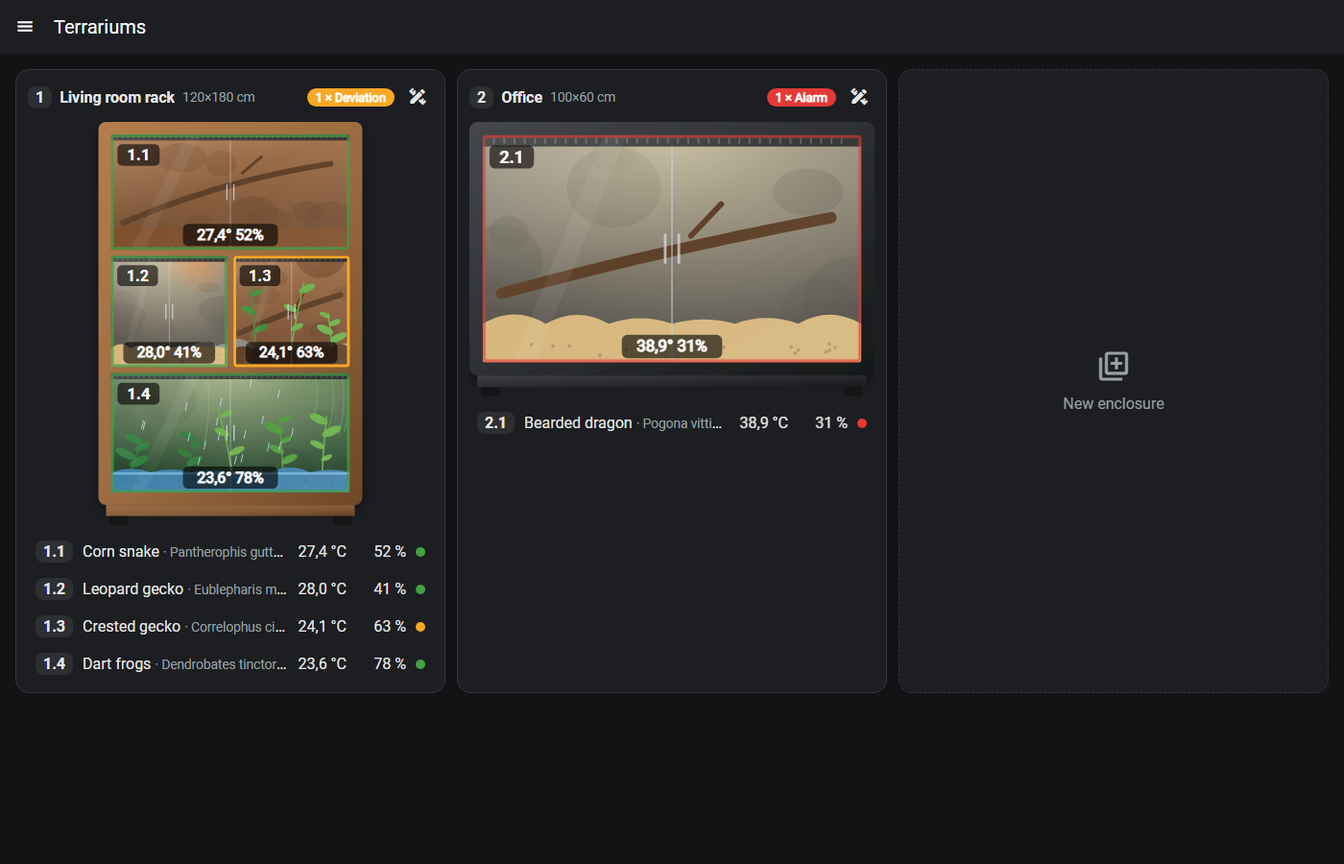
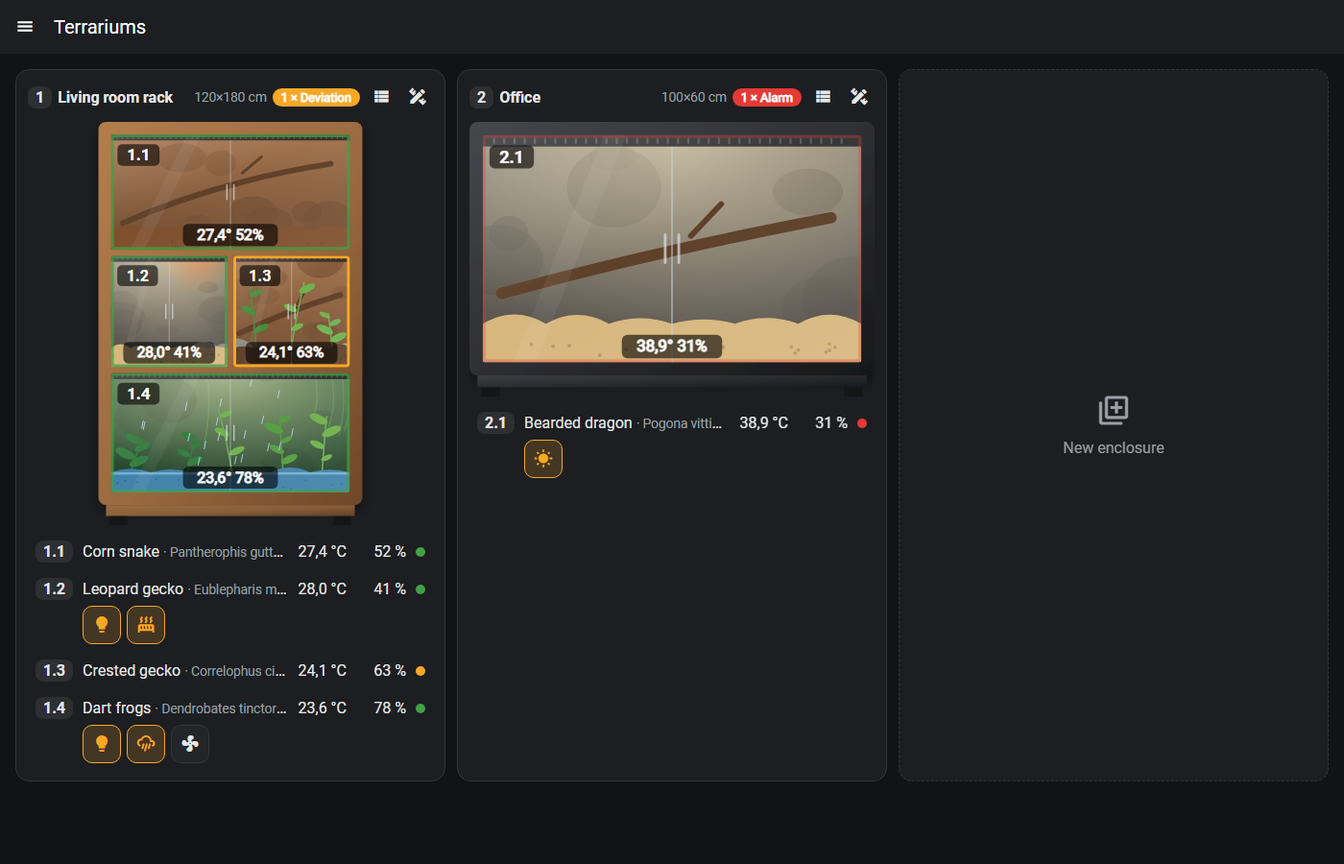
1.1.0: phone/tablet layout – quick device buttons in the list, foldable model, touch-sized controls, container-query layout

diff --git a/custom_components/terrarium/frontend/terrarium-card.js b/custom_components/terrarium/frontend/terrarium-card.js
@@ -1,6 +1,6 @@
 /* Terrarium card + panel for Home Assistant – https://github.com/SysriX/terrarium_ha_integration */
 (() => {
-const VERSION = "1.0.0";
+const VERSION = "1.1.0";
 if (customElements.get("terrarium-card")) return;
 
 /* ------------------------------------------------------------------ texts */
@@ -44,6 +44,7 @@ const TEXTS = {
     kind: "Art", k_light: "Licht", k_heat: "Wärme", k_uv: "UV", k_ventilation: "Lüftung", k_rain: "Beregnung", k_fogger: "Nebler", k_pump: "Pumpe", k_other: "Sonstiges",
     planned: "Geplant", planned_hint: "Diese Automationen folgen in einer späteren Version.",
     m_light: "Lichtsteuerung (Zeiten, Sonnenauf-/-untergang)", m_ventilation: "Lüftungssteuerung", m_rain: "Beregnung / Regensimulation",
+    model_show: "Modell anzeigen", model_hide: "Nur Liste",
     on: "An", off: "Aus", unavailable: "nicht verfügbar", required_num: "Bitte eine Zahl eingeben.",
   },
   en: {
@@ -83,6 +84,7 @@ const TEXTS = {
     kind: "Kind", k_light: "Light", k_heat: "Heat", k_uv: "UV", k_ventilation: "Ventilation", k_rain: "Rain", k_fogger: "Fogger", k_pump: "Pump", k_other: "Other",
     planned: "Planned", planned_hint: "These automations follow in a later version.",
     m_light: "Light control (times, sunrise/sunset)", m_ventilation: "Ventilation control", m_rain: "Rain simulation",
+    model_show: "Show model", model_hide: "List only",
     on: "On", off: "Off", unavailable: "unavailable", required_num: "Please enter a number.",
   },
 };
@@ -336,9 +338,9 @@ function chartSVG(points, lo, hi, unit, color, startMs, endMs) {
 
 /* ------------------------------------------------------------------ styles */
 const STYLE = `
-:host { display:block; --tc-gap:12px; --tc-muted: var(--secondary-text-color, #9aa0a6); }
+:host { display:block; --tc-gap:12px; --tc-muted: var(--secondary-text-color, #9aa0a6); -webkit-tap-highlight-color: transparent; }
 * { box-sizing: border-box; }
-.wrap { padding: 12px; color: var(--primary-text-color, #e1e1e1); font-family: var(--paper-font-body1_-_font-family, inherit); }
+.wrap { container-type: inline-size; padding: 12px; color: var(--primary-text-color, #e1e1e1); font-family: var(--paper-font-body1_-_font-family, inherit); }
 .panel .wrap { padding: 16px; max-width: 1600px; margin: 0 auto; }
 h2 { font-size: 1.25rem; margin: 0; font-weight: 600; }
 h3 { font-size: 1rem; margin: 0 0 8px; font-weight: 600; }
@@ -346,6 +348,7 @@ h3 { font-size: 1rem; margin: 0 0 8px; font-weight: 600; }
 .small { font-size: .85rem; }
 .row { display:flex; align-items:center; gap:8px; }
 .spacer { flex:1; }
+.head .hd { min-width: 0; flex: 0 1 auto; }
 .head { display:flex; align-items:center; gap:10px; margin-bottom: 12px; flex-wrap: wrap; }
 button.b { font: inherit; cursor:pointer; border:1px solid var(--divider-color, #3a3f45); background: var(--secondary-background-color, #2a2d31);
   color: var(--primary-text-color, #e1e1e1); border-radius: 10px; padding: 7px 12px; display:inline-flex; gap:6px; align-items:center; }
@@ -356,22 +359,26 @@ button.b[disabled] { opacity:.5; cursor: default; }
 button.ic { background:none; border:none; color: inherit; cursor:pointer; padding:6px; border-radius: 50%; display:inline-flex; }
 button.ic:hover { background: rgba(127,127,127,.15); }
 ha-icon { --mdc-icon-size: 20px; }
-.grid { display:grid; grid-template-columns: repeat(auto-fill, minmax(380px, 1fr)); gap: var(--tc-gap); }
+.grid { display:grid; grid-template-columns: repeat(auto-fill, minmax(min(380px, 100%), 1fr)); gap: var(--tc-gap); }
 .ell { min-width:0; overflow:hidden; text-overflow:ellipsis; white-space:nowrap; }
 .tile { background: var(--card-background-color, #1f2124); border: 1px solid var(--divider-color, #33373c); border-radius: 14px; padding: 12px; display:flex; flex-direction:column; gap:10px; }
 .card-mode .tile { background: rgba(127,127,127,.06); }
-.tile .th { display:flex; align-items:center; gap:8px; }
+.tile .th { display:flex; align-items:center; gap:6px; min-width:0; }
+.tile .th .tn { flex: 1 1 auto; min-width: 70px; }
+.tile .th .ic { flex: none; }
 .nr { font-weight:700; background: rgba(127,127,127,.18); border-radius: 8px; padding: 2px 8px; font-variant-numeric: tabular-nums; }
 .chip { white-space:nowrap; display:inline-flex; align-items:center; gap:5px; border-radius: 999px; padding: 2px 9px; font-size: .8rem; font-weight:600; color:#fff; }
 .model { width:100%; height:auto; display:block; max-height: 420px; }
 .model .comp { cursor:pointer; transition: opacity .2s; }
-.model .comp:hover { opacity:.92; }
 .model .comp.dim { opacity:.35; }
 .blink { animation: blink 1.4s infinite; }
 @keyframes blink { 50% { opacity:.25; } }
 .list { display:flex; flex-direction:column; gap:4px; }
-.li { display:grid; grid-template-columns: auto 1fr auto auto auto; gap:10px; align-items:center; padding: 6px 8px; border-radius: 10px; cursor:pointer; }
-.li:hover { background: rgba(127,127,127,.1); }
+.li { display:grid; grid-template-columns: auto minmax(0,1fr) auto auto auto; gap:6px 10px; align-items:center; padding: 6px 8px; border-radius: 10px; cursor:pointer; }
+.qd { grid-column: 2 / -1; display:flex; flex-wrap:wrap; gap:6px; }
+.qb { width:40px; height:40px; border-radius: 10px; border:1px solid var(--divider-color, #3a3f45); background: rgba(127,127,127,.08); color: inherit; display:inline-flex; align-items:center; justify-content:center; cursor:pointer; padding:0; }
+.qb.on { border-color:#f9a825; background: rgba(249,168,37,.18); color:#f9a825; }
+.qb.na { opacity:.4; }
 .dot { width:10px; height:10px; border-radius:50%; display:inline-block; }
 .val { font-variant-numeric: tabular-nums; min-width: 52px; text-align:right; }
 .add-tile { align-items:center; justify-content:center; min-height: 200px; cursor:pointer; border-style: dashed; color: var(--tc-muted); }
@@ -388,6 +395,7 @@ ha-icon { --mdc-icon-size: 20px; }
 .devs { display:grid; grid-template-columns: repeat(auto-fill, minmax(120px, 1fr)); gap: 8px; }
 .dev { border:1px solid var(--divider-color, #3a3f45); border-radius: 12px; padding: 10px; cursor:pointer; display:flex; flex-direction:column; gap:4px; background: rgba(127,127,127,.06); }
 .dev.on { border-color: #f9a825; background: rgba(249,168,37,.14); }
+.dev.busy, .qb.busy { animation: blink .9s infinite; }
 .dev .dn { font-weight:600; font-size: .9rem; white-space:nowrap; overflow:hidden; text-overflow:ellipsis; }
 .prob { display:flex; align-items:center; gap:8px; padding: 4px 0; }
 .locator { max-width: 260px; }
@@ -409,7 +417,7 @@ input:focus, select:focus { outline: 2px solid var(--primary-color, #03a9f4); ou
 .devrow { display:grid; grid-template-columns: 130px 1fr 1fr auto; gap: 8px; align-items:center; margin-bottom: 6px; }
 .err { color: #ef5350; font-weight: 600; }
 .ok { color: #66bb6a; }
-.actions { display:flex; gap:8px; justify-content:flex-end; flex-wrap:wrap; position: sticky; bottom: 0; padding: 10px 0; background: linear-gradient(transparent, var(--primary-background-color, #111) 35%); }
+.actions { display:flex; gap:8px; justify-content:flex-end; flex-wrap:wrap; position: sticky; bottom: 0; padding: 10px 0 calc(10px + env(safe-area-inset-bottom, 0px)); background: linear-gradient(transparent, var(--primary-background-color, #111) 35%); }
 .card-mode .actions { background: none; position: static; }
 .planned { display:flex; flex-direction:column; gap:6px; }
 .planned .pl { display:flex; align-items:center; gap:8px; opacity: .7; }
@@ -421,8 +429,42 @@ input:focus, select:focus { outline: 2px solid var(--primary-color, #03a9f4); ou
 .edsvg .eh { cursor: nwse-resize; }
 .clist .ci { display:flex; gap:8px; align-items:center; padding: 4px 6px; border-radius: 8px; cursor:pointer; }
 .clist .ci.sel { background: rgba(3,169,244,.18); }
-@media (max-width: 860px) { .det, .ed { grid-template-columns: 1fr; } .locator { max-width: 200px; } }
-@media (max-width: 480px) { .grid { grid-template-columns: 1fr; } .devrow { grid-template-columns: 1fr 1fr; } .li { grid-template-columns: auto 1fr auto auto; } .li .hide-s { display:none; } }
+@media (hover: hover) { .li:hover { background: rgba(127,127,127,.1); } .model .comp:hover { opacity:.92; } .dev:hover, .qb:hover { border-color: var(--primary-color, #03a9f4); } }
+/* touch devices (iPhone, iPad): bigger targets, 16px inputs = no zoom on focus */
+@media (pointer: coarse) {
+  button.b { min-height: 44px; }
+  button.ic { min-width: 44px; min-height: 44px; justify-content: center; }
+  input, select { font-size: 16px; min-height: 44px; }
+  .qb { width: 46px; height: 46px; }
+  .li { padding: 10px 8px; }
+  .dev { min-height: 76px; }
+  label.cb { min-height: 40px; }
+  input[type=checkbox] { width: 22px; height: 22px; min-height: 0; }
+}
+/* layout follows the width of the card/panel, not the screen */
+@container (max-width: 860px) {
+  .det, .ed { display:flex; flex-direction:column; }
+  .det .col, .ed .col { display: contents; }
+  .o1{order:1} .o2{order:2} .o3{order:3} .o4{order:4} .o5{order:5} .o6{order:6} .o7{order:7}
+  .ed .edbox { order:-1; } .ed .actions { order: 20; }
+  .locator { max-width: 240px; }
+}
+@container (max-width: 520px) {
+  .wrap { padding: 8px; }
+  .head h2 { font-size: 1.08rem; }
+  .head { flex-wrap: nowrap; gap: 6px; }
+  .tile, .box, .sec { padding: 10px; border-radius: 12px; }
+  .devrow { grid-template-columns: 1fr 1fr; }
+  .hide-s { display:none; }
+  .li { gap: 6px 8px; }
+  .val { min-width: 44px; }
+  .gauges { gap: 2px; }
+  .devs { grid-template-columns: repeat(auto-fill, minmax(104px, 1fr)); }
+  .fields { grid-template-columns: repeat(auto-fill, minmax(130px, 1fr)); }
+  .grid { gap: 10px; }
+  .add-tile { min-height: 80px; flex-direction: row; }
+  .chip { padding: 2px 7px; font-size: .75rem; }
+}
 `;
 
 /* ------------------------------------------------------------------ main view */
@@ -436,6 +478,8 @@ class TerrariumView extends HTMLElement {
     this._hist = {};
     this._targets = null;
     this._msg = "";
+    this._busy = {};
+    try { this._modelPref = JSON.parse(localStorage.getItem("terrarium-model") || "{}"); } catch (e) { this._modelPref = {}; }
     this._root = this.shadowRoot;
     this._root.addEventListener("click", (e) => this._click(e));
     this._root.addEventListener("input", (e) => this._input(e));
@@ -472,6 +516,8 @@ class TerrariumView extends HTMLElement {
 
   _onData(data) {
     this._data = data;
+    // a switched device reported its new state -> stop the "busy" blink
+    for (const [ent, prev] of Object.entries(this._busy)) if (this._devState(ent) !== prev) delete this._busy[ent];
     this._error = null;
     if (!this._initialRoute) {
       this._initialRoute = true;
@@ -481,6 +527,29 @@ class TerrariumView extends HTMLElement {
       }
     }
     if (["overview", "details"].includes(this._view.name)) this._render();
+  }
+
+  _devState(ent) {
+    for (const e of (this._data?.enclosures || [])) for (const c of e.compartments) for (const d of (c.live?.devices || [])) if (d.entity_id === ent) return d.state;
+    const s = this._hass && this._hass.states[ent];
+    return s ? s.state : null;
+  }
+
+  _modelShown(encId) {
+    if (encId in this._modelPref) return this._modelPref[encId];
+    const w = this.getBoundingClientRect().width || window.innerWidth;
+    return w >= 560; // phones: compact list first, model on demand
+  }
+
+  _quickButtons(c) {
+    const devs = c.live?.devices || c.devices || [];
+    if (!devs.length) return "";
+    return `<div class="qd">${devs.map((d) => {
+      const st = this._devState(d.entity_id), on = isOn(st), na = st === null || st === "unavailable";
+      const s = this._hass.states[d.entity_id];
+      const name = d.name || (s && s.attributes.friendly_name) || d.entity_id;
+      return `<button class="qb ${on ? "on" : ""} ${na ? "na" : ""} ${this._busy[d.entity_id] !== undefined ? "busy" : ""}" data-act="toggle" data-ent="${esc(d.entity_id)}" title="${esc(name)}: ${on ? this.t("on") : this.t("off")}" aria-label="${esc(name)}"><ha-icon icon="${KIND_ICON[d.kind] || KIND_ICON.other}"></ha-icon></button>`;
+    }).join("")}</div>`;
   }
 
   _encs() {
@@ -529,19 +598,22 @@ class TerrariumView extends HTMLElement {
       const comps = enc.compartments;
       const bad = comps.filter((c) => ["alarm", "offline"].includes(c.live?.status)).length;
       const pend = comps.filter((c) => c.live?.status === "pending").length;
-      h += `<div class="tile"><div class="th"><span class="nr">${enc.nr}</span><b class="ell">${esc(enc.name || this.t("enclosure") + " " + enc.nr)}</b>`;
-      h += `<span class="muted small" style="white-space:nowrap">${enc.width}×${enc.height} cm</span><span class="spacer"></span>`;
+      h += `<div class="tile"><div class="th"><span class="nr">${enc.nr}</span><b class="ell tn">${esc(enc.name || this.t("enclosure") + " " + enc.nr)}</b>`;
+      h += `<span class="muted small hide-s" style="white-space:nowrap">${enc.width}×${enc.height} cm</span>`;
       if (bad) h += `<span class="chip" style="background:${STATUS_COLOR.alarm}">${bad} × ${this.t("status_alarm")}</span>`;
       else if (pend) h += `<span class="chip" style="background:${STATUS_COLOR.pending}">${pend} × ${this.t("status_pending")}</span>`;
+      const shown = this._modelShown(enc.id);
+      if (comps.length) h += `<button class="ic" data-act="model" data-enc="${esc(enc.id)}" title="${this.t(shown ? "model_hide" : "model_show")}"><ha-icon icon="${shown ? "mdi:view-list" : "mdi:image-outline"}"></ha-icon></button>`;
       if (this.admin) h += `<button class="ic" data-act="enc-edit" data-enc="${esc(enc.id)}" title="${this.t("edit")}"><ha-icon icon="mdi:pencil-ruler"></ha-icon></button>`;
-      h += `</div>${comps.length ? enclosureSVG(enc) : `<div class="muted small">${this.t("none_selected")}</div>`}<div class="list">`;
+      h += `</div>${comps.length ? (shown ? enclosureSVG(enc) : "") : `<div class="muted small">${this.t("none_selected")}</div>`}<div class="list">`;
       for (const c of comps) {
         const L = c.live || {};
         h += `<div class="li" data-act="open" data-comp="${esc(c.id)}"><span class="nr">${esc(c.label)}</span>`;
         h += `<span class="ell">${esc(c.name || "–")}${c.animal ? ` <span class="muted small hide-s">· ${esc(c.animal)}</span>` : ""}</span>`;
         h += `<span class="val">${L.temperature !== null && L.temperature !== undefined ? fmt(L.temperature) + " °C" : "–"}</span>`;
         h += `<span class="val">${L.humidity !== null && L.humidity !== undefined ? fmt(L.humidity, 0) + " %" : "–"}</span>`;
-        h += `<span class="dot" style="background:${STATUS_COLOR[L.status || "not_configured"]}" title="${esc(this.t("status_" + (L.status || "not_configured")))}"></span></div>`;
+        h += `<span class="dot" style="background:${STATUS_COLOR[L.status || "not_configured"]}" title="${esc(this.t("status_" + (L.status || "not_configured")))}"></span>`;
+        h += this._quickButtons(c) + `</div>`;
       }
       h += `</div></div>`;
     }
@@ -556,52 +628,52 @@ class TerrariumView extends HTMLElement {
     const tg = L.targets || {};
     const st = L.status || "not_configured";
     let h = `<div class="wrap"><div class="head"><button class="ic" data-act="back" title="${this.t("back")}"><ha-icon icon="mdi:arrow-left"></ha-icon></button>`;
-    h += `<span class="nr">${esc(c.label)}</span><div><h2>${esc(c.name || this.t("enclosure") + " " + c.label)}</h2>${c.animal ? `<div class="muted small">${esc(c.animal)}</div>` : ""}</div>`;
+    h += `<span class="nr">${esc(c.label)}</span><div class="hd"><h2 class="ell">${esc(c.name || this.t("enclosure") + " " + c.label)}</h2>${c.animal ? `<div class="muted small ell">${esc(c.animal)}</div>` : ""}</div>`;
     h += this._statusChip(st) + `<span class="spacer"></span>`;
-    if (this.admin) h += `<button class="b" data-act="comp-settings" data-comp="${esc(c.id)}"><ha-icon icon="mdi:cog"></ha-icon>${this.t("settings")}</button>`;
-    h += `</div><div class="det"><div class="col"><div class="box">${enclosureSVG(enc, { onlyComp: { ...c }, labels: false })}</div>`;
-    if (enc.compartments.length > 1) h += `<div class="box"><div class="muted small" style="margin-bottom:6px">${esc(enc.name || this.t("enclosure") + " " + enc.nr)}</div><div class="locator">${enclosureSVG(enc, { highlight: c.id, values: false })}</div></div>`;
+    if (this.admin) h += `<button class="b" data-act="comp-settings" data-comp="${esc(c.id)}" title="${this.t("settings")}"><ha-icon icon="mdi:cog"></ha-icon><span class="hide-s">${this.t("settings")}</span></button>`;
+    h += `</div><div class="det"><div class="col"><div class="box o4">${enclosureSVG(enc, { onlyComp: { ...c }, labels: false })}</div>`;
+    if (enc.compartments.length > 1) h += `<div class="box o6"><div class="muted small" style="margin-bottom:6px">${esc(enc.name || this.t("enclosure") + " " + enc.nr)}</div><div class="locator">${enclosureSVG(enc, { highlight: c.id, values: false })}</div></div>`;
     h += `</div><div class="col">`;
     // gauges
     const period = L.period === "night" ? this.t("night_values") : this.t("day_values");
     const tcol = STATUS_COLOR[(L.problems || []).concat(L.pending || []).some((p) => p.startsWith("temp")) ? (L.problems || []).some((p) => p.startsWith("temp")) ? "alarm" : "pending" : "ok"];
     const hcol = STATUS_COLOR[(L.problems || []).concat(L.pending || []).some((p) => p.startsWith("hum")) ? (L.problems || []).some((p) => p.startsWith("hum")) ? "alarm" : "pending" : "ok"];
-    h += `<div class="box"><div class="row" style="margin-bottom:6px"><h3 style="margin:0">${this.t("temperature")} & ${this.t("humidity")}</h3><span class="spacer"></span><span class="muted small"><ha-icon icon="${L.period === "night" ? "mdi:weather-night" : "mdi:weather-sunny"}" style="--mdc-icon-size:16px"></ha-icon> ${period}</span></div><div class="gauges">`;
+    h += `<div class="box o1"><div class="row" style="margin-bottom:6px"><h3 style="margin:0">${this.t("temperature")} & ${this.t("humidity")}</h3><span class="spacer"></span><span class="muted small"><ha-icon icon="${L.period === "night" ? "mdi:weather-night" : "mdi:weather-sunny"}" style="--mdc-icon-size:16px"></ha-icon> ${period}</span></div><div class="gauges">`;
     const tmin = Math.min(15, (tg.temp_min ?? 15) - 5), tmax = Math.max(40, (tg.temp_max ?? 40) + 5);
     h += `<div>${gaugeSVG(L.temperature, num(tg.temp_min), num(tg.temp_max), Math.floor(tmin / 5) * 5, Math.ceil(tmax / 5) * 5, "°C", tcol, 1)}<div class="gl">${this.t("temperature")}<br><span class="muted">${this.t("target")} ${this._range(tg.temp_min, tg.temp_max, "°C")}</span></div></div>`;
     h += `<div>${gaugeSVG(L.humidity, num(tg.hum_min), num(tg.hum_max), 0, 100, "%", hcol, 0)}<div class="gl">${this.t("humidity")}<br><span class="muted">${this.t("target")} ${this._range(tg.hum_min, tg.hum_max, "%")}</span></div></div>`;
     h += `</div></div>`;
     // problems
-    h += `<div class="box"><h3>${this.t("problems")}</h3>`;
+    h += `<div class="box o3"><h3>${this.t("problems")}</h3>`;
     if (st === "not_configured") h += `<div class="muted">${this.t("not_configured_hint")}</div>`;
     else if (!(L.problems || []).length && !(L.pending || []).length) h += `<div class="ok">${this.t("all_good")}</div>`;
     for (const p of (L.problems || [])) h += `<div class="prob"><span class="dot" style="background:${STATUS_COLOR.alarm}"></span>${esc(this.t("p_" + p))}<span class="muted small">${this._since(L.since?.[p])}</span></div>`;
     for (const p of (L.pending || [])) h += `<div class="prob"><span class="dot" style="background:${STATUS_COLOR.pending}"></span>${esc(this.t("p_" + p))}<span class="muted small">${this._since(L.since?.[p])}</span></div>`;
     h += `</div>`;
     // devices
-    h += `<div class="box"><h3>${this.t("devices")}</h3>`;
+    h += `<div class="box o2"><h3>${this.t("devices")}</h3>`;
     const devs = L.devices || c.devices || [];
     if (!devs.length) h += `<div class="muted small">${this.t("no_devices")}</div>`;
     else {
       h += `<div class="devs">`;
       for (const d of devs) {
         const s = this._hass.states[d.entity_id];
-        const state = s ? s.state : null;
+        const state = this._devState(d.entity_id);
         const on = isOn(state);
         const name = d.name || (s && s.attributes.friendly_name) || d.entity_id;
-        h += `<div class="dev ${on ? "on" : ""}" data-act="toggle" data-ent="${esc(d.entity_id)}"><ha-icon icon="${KIND_ICON[d.kind] || KIND_ICON.other}" style="color:${on ? "#f9a825" : "inherit"}"></ha-icon>`;
+        h += `<div class="dev ${on ? "on" : ""} ${this._busy[d.entity_id] !== undefined ? "busy" : ""}" role="button" data-act="toggle" data-ent="${esc(d.entity_id)}"><ha-icon icon="${KIND_ICON[d.kind] || KIND_ICON.other}" style="color:${on ? "#f9a825" : "inherit"}"></ha-icon>`;
         h += `<span class="dn">${esc(name)}</span><span class="muted small">${state === null || state === "unavailable" ? this.t("unavailable") : on ? this.t("on") : this.t("off")}</span></div>`;
       }
       h += `</div>`;
     }
     h += `</div>`;
     // history
-    h += `<div class="box"><h3>${this.t("last24")}</h3><div class="muted small">${this.t("temperature")}</div><div id="ch-t">${this._chart(c, "temperature")}</div>`;
+    h += `<div class="box o5"><h3>${this.t("last24")}</h3><div class="muted small">${this.t("temperature")}</div><div id="ch-t">${this._chart(c, "temperature")}</div>`;
     h += `<div class="muted small" style="margin-top:6px">${this.t("humidity")}</div><div id="ch-h">${this._chart(c, "humidity")}</div></div>`;
     // sensors
     const sens = [...(L.temp_sensors || []).map((s) => ({ ...s, u: "°C" })), ...(L.hum_sensors || []).map((s) => ({ ...s, u: "%" }))];
     if (sens.length) {
-      h += `<div class="box"><h3>${this.t("sensors")}</h3>`;
+      h += `<div class="box o7"><h3>${this.t("sensors")}</h3>`;
       for (const s of sens) h += `<div class="row small" style="padding:3px 0"><span>${esc(s.name)}</span><span class="spacer"></span><span class="val">${s.value === null ? this.t("unavailable") : fmt(s.value, s.u === "%" ? 0 : 1) + " " + s.u}</span></div>`;
       h += `</div>`;
     }
@@ -819,7 +891,7 @@ class TerrariumView extends HTMLElement {
       s += `<text x="${c.x + c.width / 2}" y="${c.y + c.height / 2}" font-size="${fs}" fill="#fff" text-anchor="middle" font-weight="700" pointer-events="none">${esc(labels[c.id])}</text>`;
       s += `<text x="${c.x + c.width / 2}" y="${c.y + c.height / 2 + fs * 1.05}" font-size="${fs * 0.6}" fill="#cfd8dc" text-anchor="middle" pointer-events="none">${esc(c.name || "")} ${c.width.toFixed(0)}×${c.height.toFixed(0)}</text></g>`;
       if (sel) {
-        const hs = m * 0.035;
+        const hs = m * (matchMedia("(pointer: coarse)").matches ? 0.07 : 0.035);
         s += `<rect class="eh" data-c="${esc(c.id)}" data-h="1" x="${c.x + c.width - hs}" y="${c.y + c.height - hs}" width="${hs}" height="${hs}" fill="#03a9f4" stroke="#fff" stroke-width="${m * 0.003}"/>`;
       }
     }
@@ -843,7 +915,7 @@ class TerrariumView extends HTMLElement {
     h += `<div class="fields" style="margin-top:10px"><label class="f">${this.t("snap")}<select data-g="snap">${[0.5, 1, 2.5, 5, 10].map((s) => `<option value="${s}" ${v.snap === s ? "selected" : ""}>${s} cm</option>`).join("")}</select></label></div></div>`;
     h += `<div class="sec"><h3>${this.t("selected")}</h3><div id="selbox">${this._selBox(sel, labels)}</div></div>`;
     h += `<div class="sec"><h3>${this.t("compartments")}</h3><div class="muted small" style="margin-bottom:6px">${this.t("numbering_hint")}</div><div class="clist" id="clist">${this._compList(d, labels)}</div></div>`;
-    h += `</div><div class="col"><div class="box"><svg class="edsvg" id="edsvg" viewBox="${-pad} ${-pad} ${d.width + 2 * pad} ${d.height + 2 * pad}" xmlns="http://www.w3.org/2000/svg"><g id="lay">${this._editorSVGInner()}</g></svg></div>`;
+    h += `</div><div class="col"><div class="box edbox"><svg class="edsvg" id="edsvg" viewBox="${-pad} ${-pad} ${d.width + 2 * pad} ${d.height + 2 * pad}" xmlns="http://www.w3.org/2000/svg"><g id="lay">${this._editorSVGInner()}</g></svg></div>`;
     h += `<div class="actions">${d.id ? `<button class="b warn" data-act="enc-delete"><ha-icon icon="mdi:delete"></ha-icon>${this.t("delete")}</button>` : ""}<span id="msg" class="${this._msgErr ? "err" : "ok"}">${esc(this._msg)}</span><span class="spacer"></span><button class="b" data-act="enc-cancel">${this.t("cancel")}</button><button class="b pri" data-act="enc-save"><ha-icon icon="mdi:content-save"></ha-icon>${this.t("save")}</button></div></div>`;
     return h + `</div></div>`;
   }
@@ -966,8 +1038,19 @@ class TerrariumView extends HTMLElement {
         break;
       }
       case "back": this._view = { name: "overview" }; this._render(); break;
+      case "model": {
+        e.stopPropagation();
+        this._modelPref[el.dataset.enc] = !this._modelShown(el.dataset.enc);
+        try { localStorage.setItem("terrarium-model", JSON.stringify(this._modelPref)); } catch (err) { /* private mode */ }
+        this._render();
+        break;
+      }
       case "toggle": {
+        e.stopPropagation();
         const ent = el.dataset.ent, domain = ent.split(".")[0];
+        this._busy[ent] = this._devState(ent);
+        el.classList.add("busy");
+        setTimeout(() => { if (this._busy[ent] !== undefined) { delete this._busy[ent]; if (["overview", "details"].includes(this._view.name)) this._render(); } }, 6000);
         if (domain === "script") this._hass.callService("script", "turn_on", { entity_id: ent });
         else if (domain === "automation") this._hass.callService("automation", "trigger", { entity_id: ent });
         else this._hass.callService("homeassistant", "toggle", { entity_id: ent });

diff --git a/docs/test.html b/docs/test.html
@@ -81,7 +81,7 @@ const data = { enclosures: [
       live(38.9, 31, "alarm", ["temp_high"], [], [{ entity_id: "light.dragon_uv", kind: "uv", state: "on" }], { temp_min: 26, temp_max: 36, hum_min: 25, hum_max: 45 })),
   ] },
 ] };
-for (const e of data.enclosures) for (const c of e.compartments) c.label = `${e.nr}.${c.nr}`;
+for (const e of data.enclosures) for (const c of e.compartments) { c.label = `${e.nr}.${c.nr}`; c.live.devices = c.devices.map((d) => ({ ...d, state: states[d.entity_id]?.state ?? null })); }
 data.enclosures[0].compartments[1].live.temp_sensors = [{ entity_id: "sensor.gecko_warm_temperature", name: "Gecko warm side", value: 30.8 }, { entity_id: "sensor.gecko_cold_temperature", name: "Gecko cold side", value: 25.2 }];
 data.enclosures[0].compartments[1].live.hum_sensors = [{ entity_id: "sensor.gecko_humidity", name: "Gecko humidity", value: 41 }];
 

diff --git a/custom_components/terrarium/const.py b/custom_components/terrarium/const.py
@@ -4,7 +4,7 @@ from __future__ import annotations
 from homeassistant.const import Platform
 
 DOMAIN = "terrarium"
-VERSION = "1.0.0"
+VERSION = "1.1.0"
 
 PLATFORMS: list[Platform] = [Platform.SENSOR, Platform.BINARY_SENSOR, Platform.SWITCH]
 

diff --git a/README.md b/README.md
@@ -35,6 +35,24 @@ The integration brings its own **sidebar panel** (and a Lovelace card) with an o
 
 ![Layout editor](docs/images/editor.png)
 
+## Phone, tablet, desktop
+
+The view adapts to the width of the panel or card (container queries), so it works the same in a desktop browser
+(Mac/Windows), on an iPad (portrait and landscape) and on an iPhone:
+
+- **Phone = quick control:** compact list with temperature, humidity and status, and the devices of every terrarium
+  as **one-tap buttons** right in the list (light, rain, fan …) – no need to open the terrarium. The drawn model is
+  folded away on phones and can be shown per enclosure (the choice is remembered on the device).
+- **Detail view on narrow screens:** values first, then devices, notices, model and history.
+- **Touch:** 44 px touch targets, 16 px inputs (no zoom on iOS when typing), bigger resize handle in the
+  layout editor, save bar respects the iPhone safe area.
+
+<p>
+  <img src="docs/images/phone.png" width="260" alt="Phone overview">
+  &nbsp;
+  <img src="docs/images/phone-details.png" width="260" alt="Phone detail view">
+</p>
+
 ## Planned
 
 Light control (times, sunrise/sunset), ventilation control and rain simulation – the settings page already
